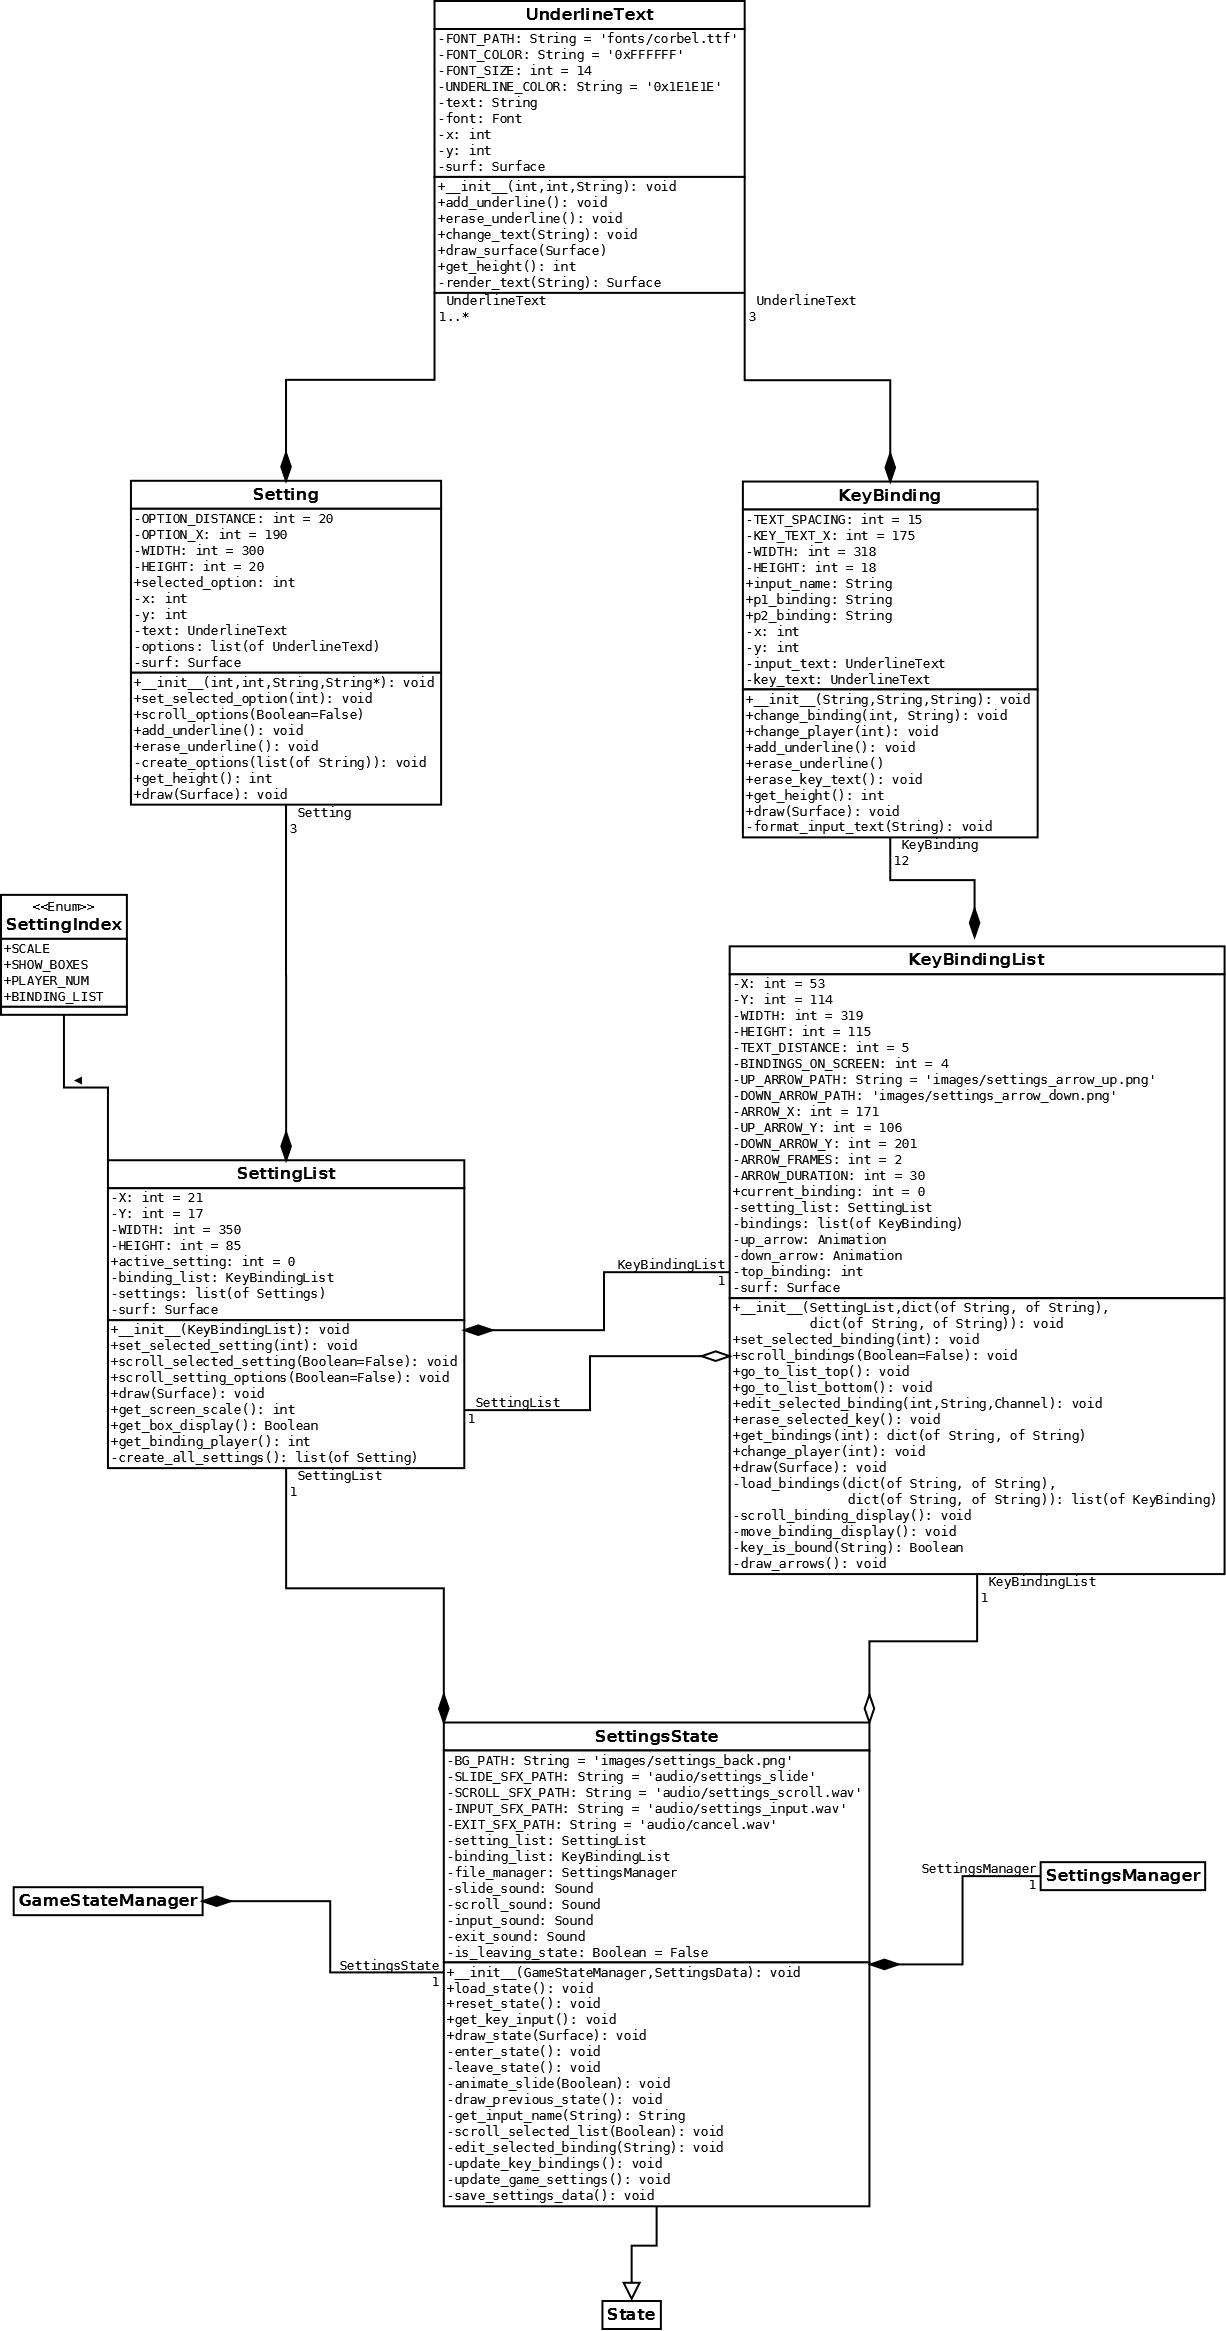
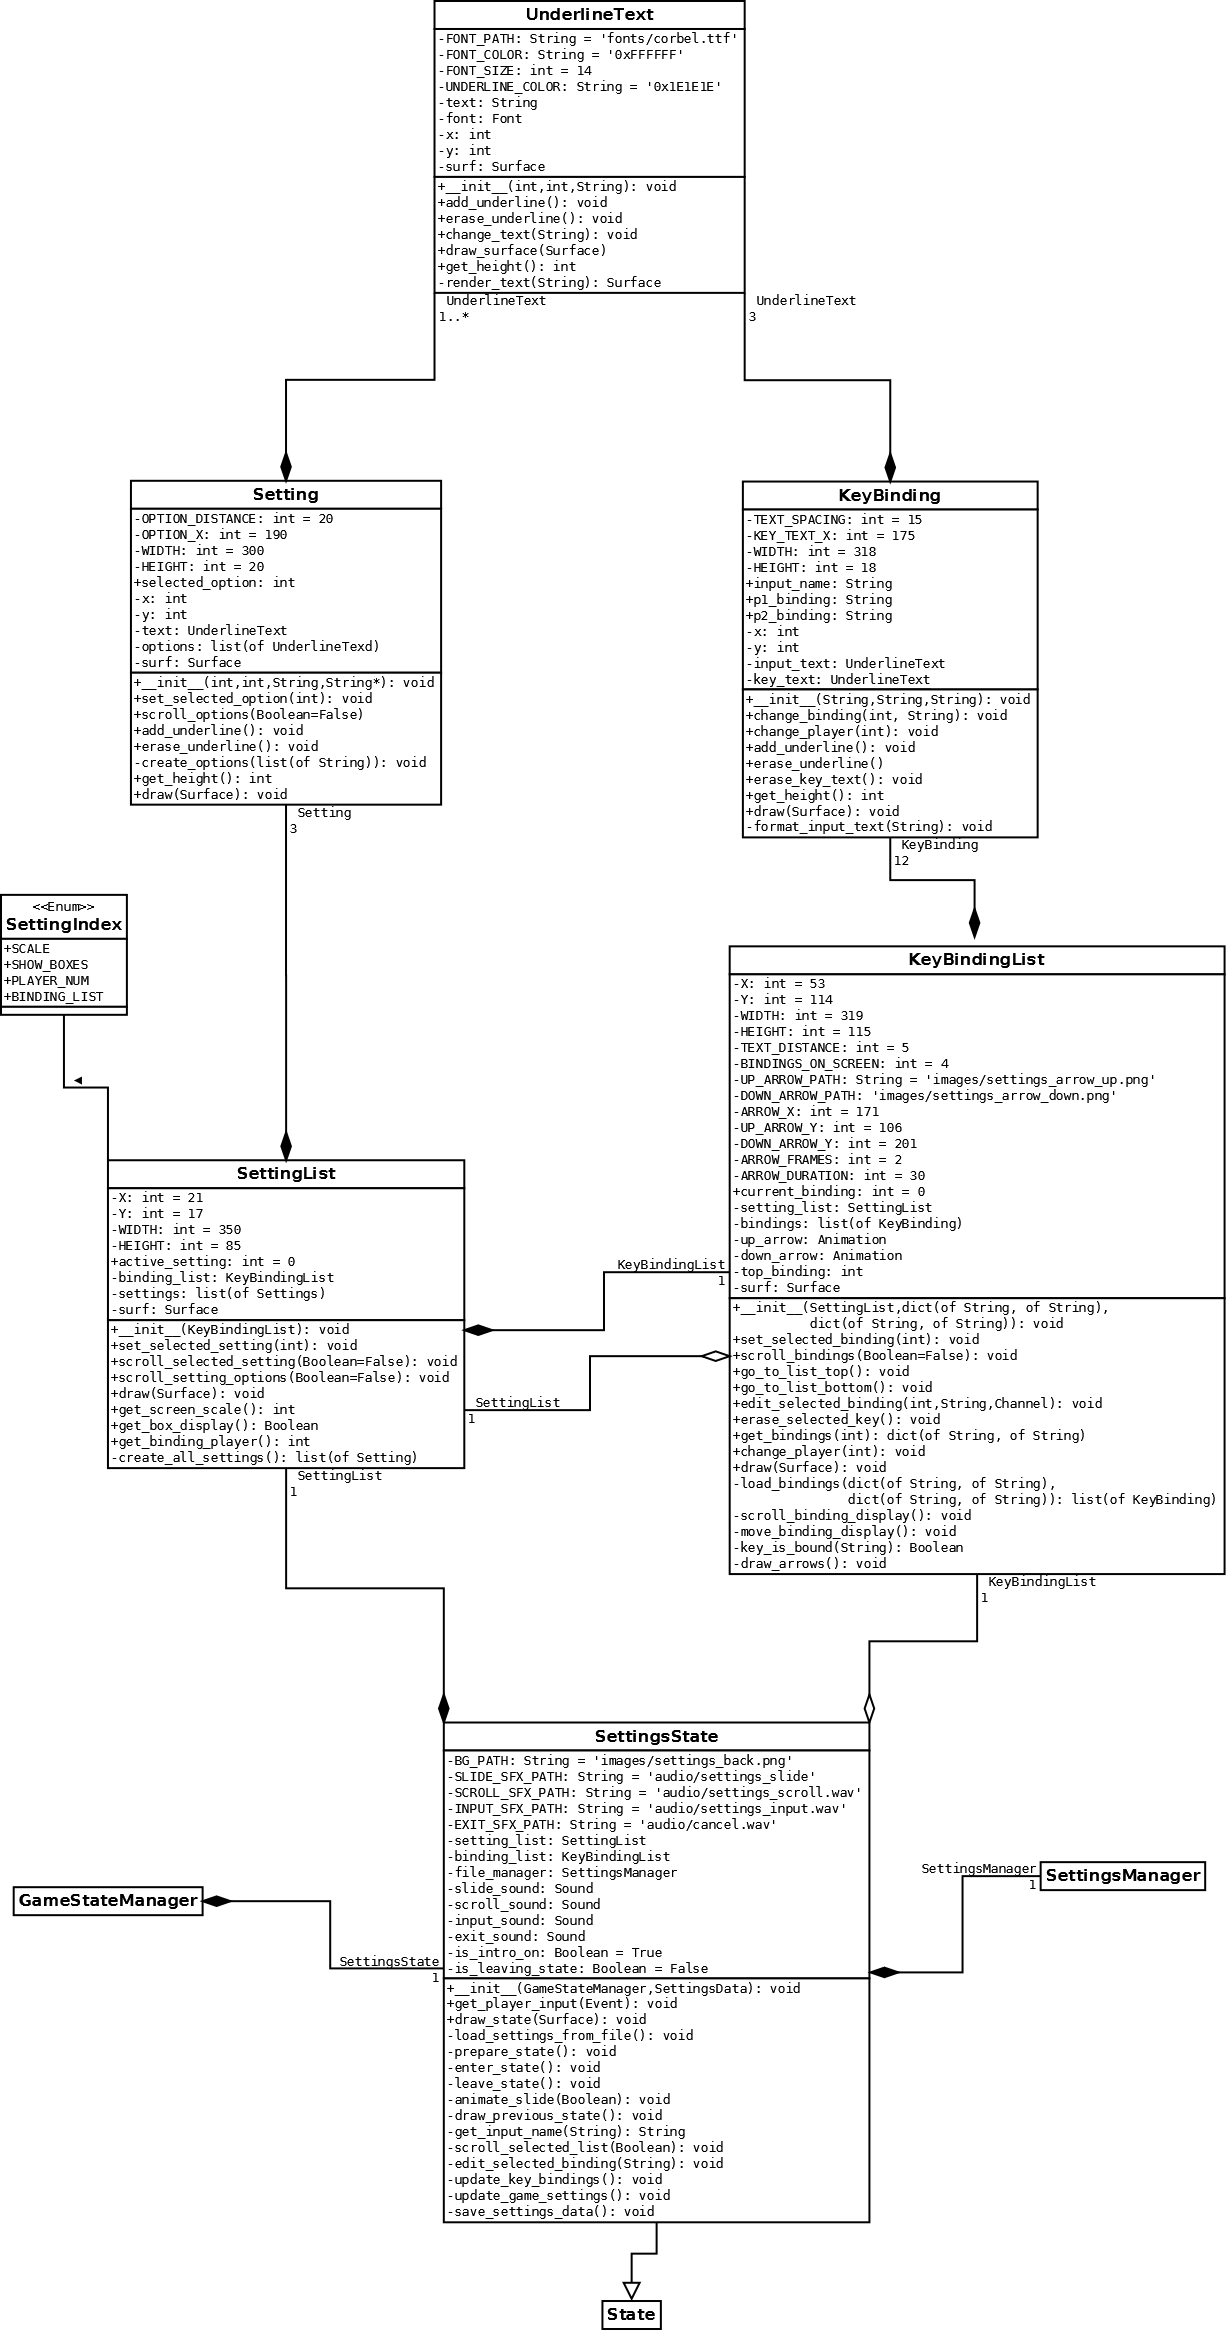
Remove State loading and resetting
The addition of the State stack means that there is no longer an
"in-between" phase for a State where it has been initialized but not
loaded, or loaded but needing to be reset.

When a State is no longer needed, it is popped off the stack and
deleted from memory entirely. Any resetting that needs to take place
will happen in the State's init() method when it is created again.

This will hopefully improve performance in the future, now that the
game no longer needs to allocate memory for States that aren't even
being used.

Changed region(s): [[0.279, 0.834, 0.6509, 0.9575], [0.7129, 0.834, 0.7439, 0.8649]]

diff --git a/lib/game_states/state.py b/lib/game_states/state.py
@@ -24,9 +24,6 @@ class State(object):
             updates this State.
         state_pass: The StatePass object that stores data to pass onto
             other States.
-        is_loaded: A Boolean indicating whether the load_state() method
-              has already been called for this State since the game
-              started.
         state_surface: All graphics in this State will be drawn
              onto this PyGame Surface.
         exact_offset: A tuple of floats that represent the coordinates
@@ -36,8 +33,6 @@ class State(object):
             so the coordinates will first need to be rounded and
             converted to integer values. Use the screen_offset() method
             to obtain drawing-friendly coordinates.
-        is_intro_on: A Boolean indicating whether the introduction
-            animation for this State is currently being shown.
         is_accepting_input: A Boolean indicating whether this State is
             currently responding to player input.
     """
@@ -48,30 +43,12 @@ class State(object):
                             and updates this State.
         state_pass          The StatePass object that stores info to
                             pass onto other States.
-
-        @type state_manager: GameStateManager
-        @type state_pass: StatePass
         """
         self.state_pass = state_pass
-        """@rtype: StatePass"""
-
         self.state_manager = state_manager
-        """@rtype: GameStateManager"""
-
         self.state_surface = Surface(SCREEN_SIZE)
-        """@rtype: Surface"""
-
         self.exact_offset = (0.0, 0.0)
-        """@rtype: tuple of (int, int)"""
-
-        self.is_loaded = False
-        """@rtype: bool"""
-
-        self.is_intro_on = False
-        """@rtype: bool"""
-
         self.is_accepting_input = True
-        """@rtype: bool"""
 
     def load_state(self):
         """Use the information passed on from the parameters to set up
@@ -178,10 +155,6 @@ class StatePass(object):
             character can use when playing action sounds.
         p2_channel_two: One of the two PyGame Channels that Player 2's
             character can use when playing action sounds.
-        will_reset_state: A Boolean indicating whether the next State
-            to be called should have its reset_state() method called.
-        enter_transition_on: A Boolean indicating whether the next State
-            to be called should play its introduction animation.
         character_one: The CharacterData object for player one's
             character.
         character_two: The CharacterData object for player two's
@@ -205,8 +178,6 @@ class StatePass(object):
         Keyword arguments:
             settings_data: The SettingsData object that will be
                 passed between all States.
-
-        @type settings_data: SettingsData
         """
         self.announcer_channel = Channel(0)
         self.ui_channel = Channel(1)
@@ -214,8 +185,6 @@ class StatePass(object):
         self.p1_channel_two = Channel(3)
         self.p2_channel_one = Channel(4)
         self.p2_channel_two = Channel(5)
-        self.will_reset_state = False
-        self.enter_transition_on = True
         self.character_one = CharacterData()
         self.character_two = CharacterData()
         #self.stage = StageData()

diff --git a/lib/game_states/settings_state.py b/lib/game_states/settings_state.py
@@ -54,6 +54,8 @@ class SettingsState(State):
         is_editing_binding: A Boolean that indicates whether the next
             key press will be saved to the currently-selected Key
             Binding.
+        is_intro_on: A Boolean indicating whether the introductory slide
+            animation is currently running.
         is_leaving_state: A Boolean that indicates whether the game
             is currently in the process of exiting this State and going
             to another State.
@@ -89,9 +91,11 @@ class SettingsState(State):
         self.exit_sound = Sound(self.EXIT_SFX_PATH)
         self.is_editing_binding = False
         self.is_leaving_state = False
+        self.load_settings_from_file()
+        self.prepare_state()
 
-    def load_state(self):
-        """Prepare this State to be run for the first time."""
+    def load_settings_from_file(self):
+        """Load settings data from the external settings file."""
         loaded = self.state_pass.settings
         scale_setting = self.setting_list.settings[SettingIndex.SCALE]
         display_setting = self.setting_list.settings[SettingIndex.SHOW_BOXES]
@@ -99,12 +103,8 @@ class SettingsState(State):
         scale_setting.set_selected_option(loaded.screen_scale - 1)
         display_setting.set_selected_option(int(loaded.show_box_display))
 
-        self.reset_state()
-
-    def reset_state(self):
-        """Reset this State and prepare its introductory animation."""
-        self.state_pass.will_reset_state = False
-
+    def prepare_state(self):
+        """Set the cursor's default position and start the intro animation."""
         scale = self.state_pass.settings.screen_scale
         self.exact_offset = (SCREEN_SIZE[0] * scale, 0.0)
         self.setting_list.set_selected_setting(SettingIndex.SCALE)

diff --git a/lib/game_states/game_state_manager.py b/lib/game_states/game_state_manager.py
@@ -111,9 +111,6 @@ class GameStateManager(object):
     def change_state(self, next_state_id):
         """Push a another State onto the stack and switch processing to it.
 
-        State resetting and loading may also be performed depending on the
-        values within state_pass.
-
         Args:
             next_state_id: The index of the next State to run. This
                 index refers to the State's position within state_list.
@@ -122,14 +119,11 @@ class GameStateManager(object):
         new_state = self.state_list[next_state_id]
         self.active_state_stack.append(new_state)
 
-        if new_state.is_loaded:
-            new_state.load_state()
-        elif self.state_pass.will_reset_state:
-            new_state.reset_state()
-        
-        if self.state_pass.enter_transition_on:
-            new_state.is_intro_on = True
-            new_state.enter_transition_on = False
+    def remove_active_state(self):
+        """Pop the currently-active State off the top of the stack and switch
+        processing to the State underneath it.
+        """
+        self.active_state_stack.pop()
 
     def scale_screen(self, scale):
         """Resize the screen whenever the screen scale changes.

diff --git a/lib/game_states/title_state.py b/lib/game_states/title_state.py
@@ -108,17 +108,6 @@ class TitleState(State):
         self.option_lists = [prompt, main_options, battle_setup]
         self.current_options = TitleOptionList.PRESS_START
 
-        self.reset_state()
-
-    def load_state(self):
-        self.is_loaded = True
-
-    def reset_state(self):
-        """Prepare this State to be shown again."""
-        self.intro_animator.reset(self.background, self.logo)
-        for option_list in self.option_lists:
-            option_list.reset()
-
     def update_state(self, time):
         """Update all processes within this State.
 
@@ -209,9 +198,6 @@ class TitleState(State):
                 possible values, refer to the StateIDs enum.
         """
         self.update_battle_settings()
-
-        self.state_pass.will_reset_state = True
-        self.state_pass.enter_transition_on = True
 
         super(TitleState, self).change_state(state_id)
 
